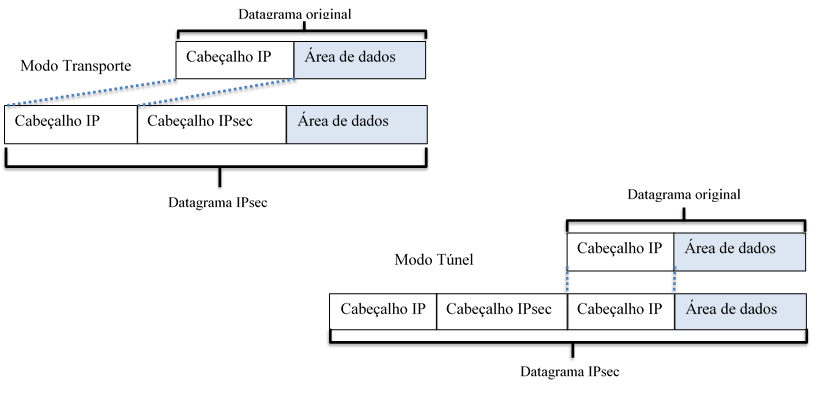
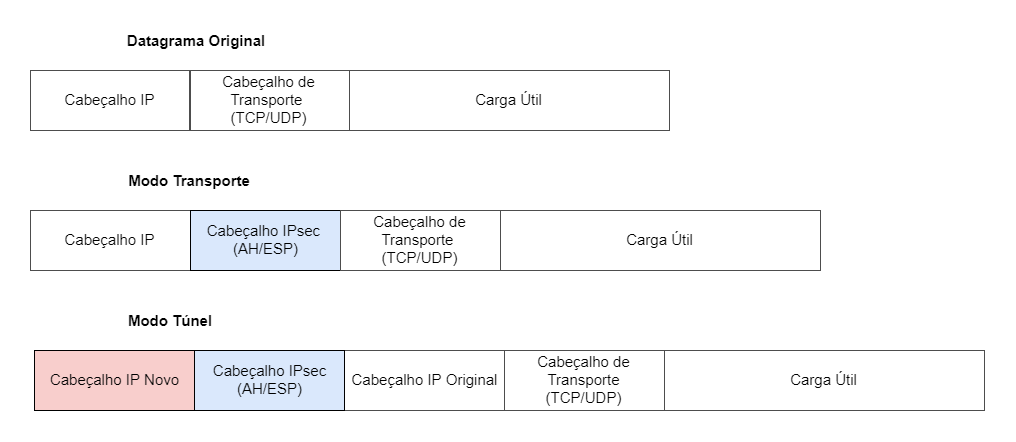
Only conclusion left for revision. New "ipsec modes" images.

Changed region(s): [[0.0, 0.0304, 1.0, 0.9722], [0.1221, 0.6987, 0.2137, 0.7595], [0.0611, 0.5165, 0.1526, 0.5772]]

diff --git a/index.html b/index.html
@@ -56,7 +56,7 @@
                         <li class="nav-item">
                             <a class="nav" class="nav-link js-scroll-trigger" href="#ipsec">3. Protocolos do IPsec</a>
                             <ul>
-                                <li><a class="nav" class="nav-link js-scroll-trigger" href="#ha">3.1. Cabeçalho de Autenticação</a></li>
+                                <li><a class="nav" class="nav-link js-scroll-trigger" href="#ah">3.1. Cabeçalho de Autenticação</a></li>
                                 <li><a class="nav" class="nav-link js-scroll-trigger" href="#esp">3.2. Encapsulamento de Dados de Segurança</a></li>
                             </ul>
                         </li>
@@ -90,38 +90,28 @@
                 1. Introdução
             </h2>
 
-            <p>A Internet, na sua concepção, foi projetada de forma a ser a mais simples e genérica
-              possível, possibilitando assim a sua rápida expansão e crescimento. Toda essa simplicidade é, de fato,
-              percebida na facilidade de desenvolvimento e integração entre diversas redes e usuários. Contudo, grandes
-              modificações no kernel da Internet não são possíveis de serem feitas. Dessa forma, projetos atuais
-              que levam em consideração requisitos que não foram inicialmente pensados na origem da Internet,
-              como por exemplo a Segurança da Informação, se utilizam de protocolos adicionais
-              para garantirem as suas implementações de forma satisfatória .</p>
+            <p>Na pilha de protocolos que regem a Rede de computadores, certamente a camada de rede (modelo TCP/IP) é a 
+            mais genérica. Seu único protocolo, o IP (Protocolo da Internet) suporta qualquer protocolo das camadas 
+            adjacentes. Atualmente existe uma variedade de aplicações que em sua base utilizam o protocolo IP
+            para rotear sua mensagens pela internet e entregar serviços ao usuários. Alterações a atualizações do mesmo 
+            são extremamente evitadas, pois além de possivelmente afetar algumas das inúmeras aplicações existentes, 
+            também implica em alterações no núcleo da rede de computadores, com alterações nos equipamentos dos fornecedores
+            de acesso a Internet.</p>
+            
+            <p>Porém, com o crescimento de aplicações cresceu também a variedade de informações que trafegam pela Rede.
+            Não tardou para que informações sensíveis (como dados bancários) necessitassem de proteção para trafegar
+            num ambiente público como a Internet. Após anos de desenvolvimento, o IETF publicou o IPsec (Segurança do 
+            Protocolo de Internet), um sistema de segurança que se mune de algoritmos de criptografia e autenticação 
+            para garantir comunicações sigilosas e confiáveis na camada de rede.</p>
 
-              <p>Com o avanço da Globalização, grandes volumes de dados sensíveis trafegam diariamente por todo o
-              planeta através da Internet, como operações bancárias e dados governamentais. Começou-se a pensar,
-              então, em métodos para evitar que tais informações fossem capturadas indevidamente.</p>
+            <p>Originalmente o IPsec foi desenvolvido para a sexta versão do Protocolo de Internet (IPv6). Porém, a adoção
+            do IPv6 mostrou-se muito lenta com o tempo, e o IPsec teve que ser retrabalhado (ainda em seu desenvolvimento) 
+            para ser compatível também com a versão 4 (IPv4). Isto explica algumas incompatibilidades que o sistema apresenta
+            com NAT (Tradução de Endereço de Rede). Neste texto discute-se conceitos básicos de segurança de informação, 
+            como introdução aos protocolos utilizados pelo IPsec. Após, aprofunda-se a discussão nestes protocolos, 
+            como funcionam, o que oferecem e seus modos de operação. Breves contextualizações estão presentes ao longo do 
+            texto, para melhor compreensão.</p>
 
-              <p>O protocolo de Internet (IP) versão 6 (IPv6), quando em desenvolvimento, tinha como principais
-              objetivos a expansão do número possível de hosts e aumentar a segurança na camada de Rede. Percebeu-se
-              então, que estas técnicas de segurança também poderiam ser aplicadas ao IPv4, que é largamente difundido
-              e utilizado, além de que sua substituição pelo IPv6 está se dando a passos lentos. </p>
-
-              <p>O principal protocolo de segurança desenvolvido foi o Protocolo de Segurança da Internet (IPsec). Sua maior vantagem
-              é o fato de prover comunicação segura, ponto-a-ponto, para diferentes aplicações, de forma transparente
-              (operando na camada de Rede, como detalharemos a seguir), tanto para o remetente, quanto para o destinatário.
-              Além disso, as aplicações que utilizam IPsec, não precisam ser modificadas de nenhuma forma. Isso é particularmente
-              importante, quando se trabalha na segurança de um determinado serviço, porém não se possui o seu código fonte,
-              fato bem comum atualmente. </p>
-
-              <p>Entrando no âmbito de quantificar e qualificar a segurança do tráfego de informações, <b>três quesitos</b> se fazem
-              presentes: Integridade, Autenticidade e Confiabilidade dos pacotes que trafegam em uma determinada infraestrutura
-              de rede, seja ela privada, como por exemplo uma VPN, ou não. Para atender tais requisitos, o protocolo IPsec integra
-              sistemas de autenticação, gerenciamento e distribuição de chaves. </p>
-
-              <p>Veremos nas seções seguintes, os conceitos fundamentais que estão embutidos em uma comunicação segura pela rede (como
-              criptografia e autenticação), quais protocolos estão embutidos no IPsec, como o datagrama original é alterado e detalhes
-              sobre a Arquitetura do protocolo e seus modos de operação. </p>
         </div>
 
         <div>
@@ -237,7 +227,7 @@
             a mensagem como um datagrama comum com um cabeçalho IP roteável, quanto para os dispositivos na redes locais,
             que recebem e enviam pacotes descriptografados.</p>
 
-            <figure align="center">
+            <figure id ="vpn" align="center">
                 <img src="img/vpn.png">
                 <figcaption>
                     Figura 3.1: Rede Virtual Privada (VPN). Adaptado de [<a href="#KUROSE">1</a>].
@@ -292,7 +282,7 @@
                 um atacante obtenha os pacotes, não terá acesso a informação, pois a mensagem encontra-se cifrada.</li>
             </ul>
 
-            <h3 id="ha">
+            <h3 id="ah">
                 3.1. Cabeçalho de Autenticação
             </h3>
 
@@ -319,23 +309,6 @@
                 para ser múltiplo de 32 bits. Sem cálculo leva em consideração o cabeçalho IP.
                 </li>
             </ul>
-
-            <!-- <figure align="center">
-                    <img src="img/headerah.png" style="width:400px">
-                    <figcaption>
-                        Figura 3.1.1:  Campos do Cabeçalho de Autenticação. Adaptado de [FRIEDL].
-                    </figcaption>
-            </figure> -->
-
-            <!--figure align="center">
-                <img src="img/ah.png" style="width:400px">
-                <figcaption>Figura 3.3:  Datagrama com Cabeçalho de Autenticação. Adaptado de [RICCI]</figcaption>
-            </figure-->
-
-            <p>O AH não oferece confidencialidade. <font color=red>O algoritmo de
-            hashing é responsável por criar o ICV. Ao realizar um hash das partes do cabeçalho de IP e das partes dos dados
-            do pacote, somente os dados do cabeçalho serão utilizados, por serem incorporados somente no cabeçalho e não
-            serem identificados até que sejam calculados.</font></p>
 
             <p>O destinatário autentica o emissor através de uma assinatura digital, conforme discutido na seção
             <a href="#assinatura">2.4</a>.</p>
@@ -483,78 +456,85 @@
             <h2 id="modos">
                 5. Modos de Operação
             </h2>
-            <p>O IPsec apresenta dois modos de funcionamentos: o Modo Transporte e o Modo Túnel.</p>
+            <p> Os dois protocolos de segurança do IPsec operam em dois modos: <b>Transporte</b> e 
+            <b>Túnel</b>. O primeiro protege o pacote da camada de transporte e mantém o cabeçalho IP 
+            original. O segundo encapsula o datagrama completamente e gera um novo cabeçalho IP. Dependendo 
+            da arquitetura de implementação do IPsec (hospedeiro a roteador, roteador a roteador ou hospedeiro 
+            a hospedeiro), um modo é mais usado. Por exemplo, o modo transporte é mais usado na arquitetura
+            hospedeiro a hospedeiro, pois este modo não altera o endereço de destino. O modo Túnel
+            é mais usado em arquitetura roteador a roteador, protegendo o datagrama apenas fora das redes 
+            locais.</p>
 
-            <p>No Modo de Transporte, apenas o pacote da camada de transporte é processado, ou seja, autenticado e/ou 
-            criptografado. Este modo é adequado para implementações em servidores e gateways, protegendo
-            camadas superiores de protocolos. O cabeçalho AH é implantado após o cabeçalho IP e antes do protocolo de 
-            camada superior(p.ex. TCP, UDP ou ICMP).</p>
-
-            <p>Assegurando a segurança apenas dos dados oriundos das camadas superiores está o Modo Túnel que é 
-            empregado para comunicação segura fim-a-fim. Também pode ser implementado entre roteadores, como visto
-            na figura <a href="vpn">3.1</a>, protegendo a mensagem apenas no meio público (internet). Sendo assim, 
-            ambos os protocolos AH e ESP podem funcionar no modo transporte e túnel.</p>
-
-            <figure align="center">
-                    <img src="img/modos.png" style="width:700px">
+            <figure align="center" id="modos-img">
+                    <img src="img/modos.png" style="width:100%">
                     <figcaption>
-                        Figura 3.3.1:  Estrutura de um datagrama IPsec nos diferentes modos
+                        Figura 5.1: O datagrama original e nos modos transporte e túnel. 
                     </figcaption>
             </figure>
+
+            <p>Como dito anteriormente (seção <a href="ah">3.1</a>), o protocolo AH pode proteger campos não mutáveis do 
+            cabeçalho IP. Neste sentido, a figura <a href="#modos-img">5.1</a></p> pode confundir o leitor, pois dá a 
+            ideia que o cabeçalho protege apenas os campos à sua direita. Mais detalhes são dados nas subseções seguintes.</p>
 
             <h3 id="mtransporte">
-                5.1. Transporte
+                5.1. Modo Transporte
             </h3>
 
-            <p>Neste modo, mantem-se o cabeçalho IP original para roteamento e insere-se um cabeçalho AH que protege os
-            dados das camadas superiores.</p>
+            <p>Neste modo, mantem-se o cabeçalho IP original e insere-se um cabeçalho do protocolo de 
+            segurança (AH ou ESP) antes do cabeçalho do protocolo de transporte. Naturalmente, o protocolo ESP é 
+            mandatório caso sigilo seja um requisito, pois é o protocolo que oferece criptografia.</p>
+
+            <p>Detalhe importante citado no início desta seção, o protocolo AH pode proteger alguns campos não mutáveis
+            do cabeçalho IP. Os cabeçalhos mutáveis para o protocolo AH são:</p>
+            <ul>
+                <li>Tipo de serviço - indica o tratamento dado pelos roteadores ao longo do percurso do datagrama.</li>
+                <li>Flag - controle da fragmentação do objeto.</li>
+                <li>Offset de Fragmento - indica a posição dos dados do datagrama.</li>
+                <li>Tempo de vida ("TTL") - reduzido por cada roteador do percurso. Ao chegar a zero, o pacote é descartado.</li>
+                <li>Soma de Verificação do Cabeçalho ("Header Checksum")- campo de proteção contra erros. Muda a cada roteador,
+                pois seu calculo leva em conta o TTL.
+                </li>
+            </ul>
+
+            <p>É importante notar que os campos que indicam os endereços de destino e origem são protegidos. Isso impede que 
+            o modo transporte com protocolo AH funcione com NAT (Tradução de Endereço de Rede), sistema cujo a ideia básica 
+            é justamente alterar o endereço de origem (de um IP não roteável para um IP roteável). Como o AH protege esse 
+            campo, o NAT falha. Segundo [<a href="#PERLMAN">2</a>], esta incompatibilidade (que também acontece com o 
+            ESP no modo túnel) é intencional, pois o IPsec foi idealizado para ser um recurso do IPv6, que evolui muito 
+            lentamente desde sua publicação, em grande parte graças ao NAT. A intenção é que o IPsec seja um incentivo
+            para a transição de IPv4 para IPv6. Porém, o geralmente acontece na prática é o uso de NAT com outras opções
+            de segurança (que é geralmente a solução mais simples e barata).</p>
+
+            A figura a seguir mostram os datagramas no modo transporte dos dois protocolos de segurança. Também indica 
+            os campos que são protegidos com criptografia e os que são protegidos com autenticação e integridade.
 
             <figure align="center">
-                    <img src="img/ah-transporte.png" style="width:65%">
+                    <img src="img/modo-transporte.png" style="width:110%">
                     <figcaption>
-                        Figura 3.3.1:  Estrutura de um datagrama IPsec nos diferentes modos
-                    </figcaption>
-            </figure>
-
-            <p>Mantem-se o cabeçalho IP original, insere o header e o trailer do protocolo ESP, com os campos de proteção.</p>
-
-            <figure align="center">
-                    <img src="img/mtransporte-esp.png" style="width:100%">
-                    <figcaption>
-                        Figura 3.3.1:  Protocolo ESP no modo transporte
+                        Figura 5.5.1:  Estrutura de um datagrama IP no modo transporte. Acima, o datagrama protegido pelo AH.
+                        Abaixo, o datagrama protegido pelo ESP. Notar que o protocolo AH protege todo o datagrama.
                     </figcaption>
             </figure>
 
             <h3 id="mtunel">
-                5.2. Túnel
+                5.2. Modo Túnel
             </h3>
 
             <p>Neste modo todo o datagrama é protegido e um novo cabeçalho IP é inserido, com endereço de destino sendo
-            uma entidade IPsec que é porta de entrada para um rede interna protegida.Pode-se usar desse método para evitar 
-            a análise de tráfego devido ao fato de que o cabeçalho IP original é protegido pelo cabeçalho IPsec.</p>
-
-            <p>Na proteção de uma rede confiável, a criptografia ocorre apenas entre
-            uma estação externa e o gateway de segurança, ou entre dois gateways de segurança. Privando as estações
-            da rede interna do processamento de criptografia e resumindo a tarefa de distribuição de chaves, devido a 
-            redução do numero de chaves necessárias para distribuição.</p>
-
-            <p>O cabeçalho IP original contém os endereços de origem e destino da mensagem, enquanto o novo cabeçalho 
-            IP (o cabeçalho IPsec) contém os endereços IP dos gateways IPsec.</p>
+            uma entidade com suporte a IPsec. Ou seja, neste caso o destinatário final da mensagem não necessariamente 
+            oferece suporte a IPSec, assim como vimos na figura <a href="#vpn">3.1</a>. O modo túnel é geralmente usado 
+            na arquitetura roteador a roteador, em que considera-se que atrás do roteador encontra-se um rede local segura. 
+            Também no modo túnel, como o cabeçalho IP original é protegido, evita-se também análise de tráfego, em outras 
+            palavras, há um sigilo quanto a natureza da comunicação. Simplificando: o cabeçalho IP original contém os 
+            endereços de origem e destino da mensagem, enquanto o novo cabeçalho IP contém os endereços dos pontos de 
+            acesso das redes locais protegidas.</p>
 
             <figure align="center">
-                    <img src="img/mtunel-ah.png" style="width:70%">
+                    <img src="img/modo-tunel.png" style="width:110%">
                     <figcaption>
-                        Figura 3.3.1:  Protocolo AH no modo túnel.
+                        Figura 5.2.1:  Protocolos no modo túnel.
                     </figcaption>
             </figure>
-
-            <figure align="center">
-                    <img src="img/mtunel-esp.png" style="width:70%">
-                    <figcaption>
-                        Figura 3.3.1:  Protocolo ESP no modo túnel.
-                    </figcaption>
-            </figure>
-        </div>
 
         <div>
             <h2 id="finais">6. Considerações Finais</h2>

diff --git a/css/resume.css b/css/resume.css
@@ -177,3 +177,14 @@ img {
 #references li {
     padding-bottom: 10px;
 }
+figure.atlas {
+    float: right;
+    width: 22%;
+    text-align: center;
+    font-style: italic;
+    font-size: 0.2em;
+    text-indent: 0;
+    border: thin;
+    margin: none;
+    padding: 0.5em;
+  }
